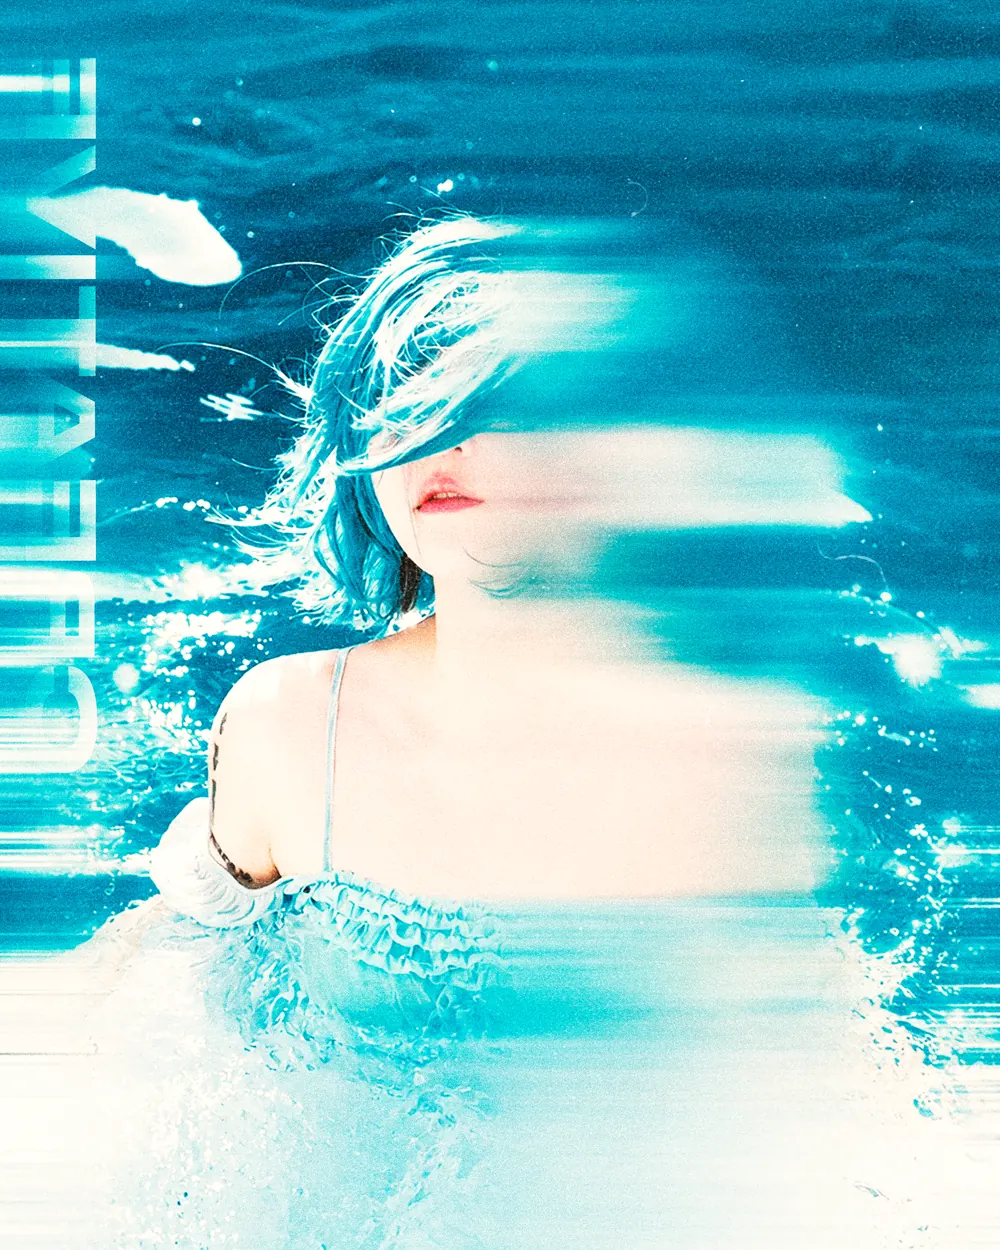
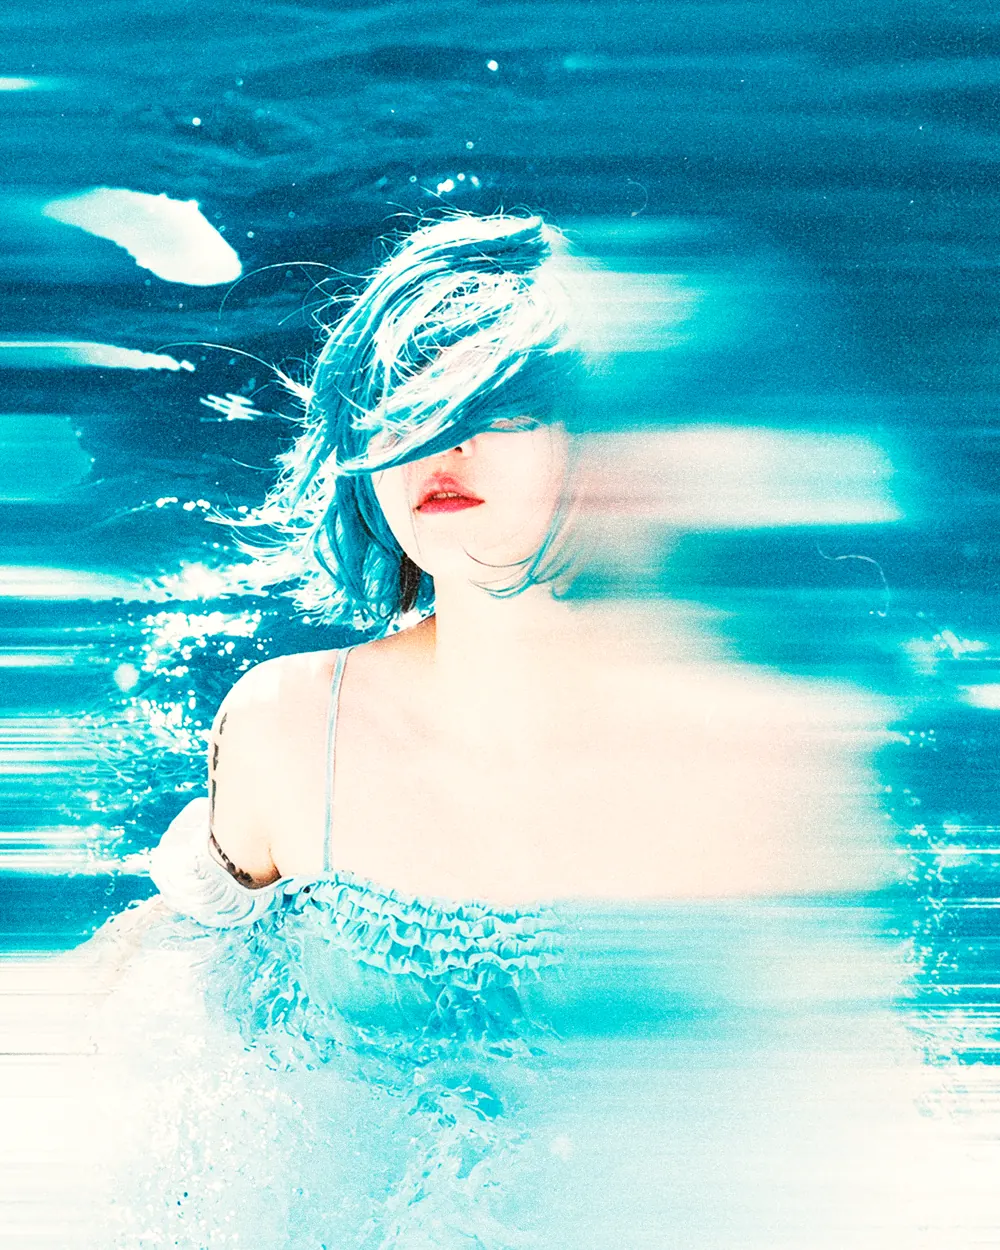
Creative Tools: version nueva de la imagen
Reemplazado el webp con la version limpia del PNG (la anterior llevaba
tipografia vertical en el canto izquierdo). Misma receta: recorte 4:5
desde arriba, 1000x1250, calidad 78, 204 KB.

Sello ?v=2 en la ruta: el archivo se publico hace un rato y Pages lo
sirve con max-age de 4 h, asi que sin cambiar la URL los navegadores
seguirian con la version vieja.

Claude-Session: https://claude.ai/code/session_01LbDozbuakSK3WPFomhunwG

diff --git a/index.html b/index.html
@@ -480,7 +480,7 @@
         <!-- REALES (con página pública) -->
         <article class="case case--a">
           <a class="case__media ph" href="https://iris.it.com/creative_tools.html" target="_blank" rel="noopener" aria-label="Ver caso Creative Tools">
-            <img class="case__img" src="./assets/creative-tools-case.webp" alt="Creative Tools — retrato bajo el agua con desplazamiento digital" width="1000" height="1250" loading="lazy" decoding="async">
+            <img class="case__img" src="./assets/creative-tools-case.webp?v=2" alt="Creative Tools — retrato bajo el agua con desplazamiento digital" width="1000" height="1250" loading="lazy" decoding="async">
             <span class="case__plus" aria-hidden="true">+</span>
           </a>
           <div class="case__meta">
